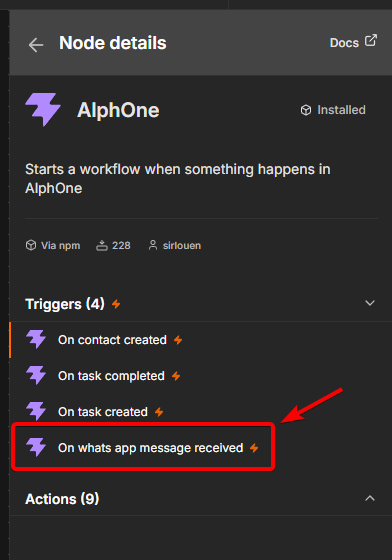
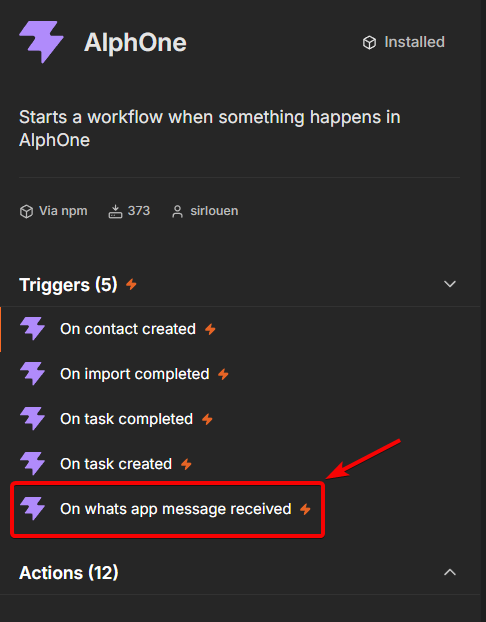
docs(n8n): stop counting what the node offers

diff --git a/docs/src/content/docs/guides/n8n.md b/docs/src/content/docs/guides/n8n.md
@@ -99,7 +99,7 @@ Press **Add first step** and search for `alphone`.
 
 The node offers a trigger for each event it supports.
 
-![The AlphOne node panel listing four triggers: on contact created, on task completed, on task created, and on WhatsApp message received.](../../../assets/n8n/06-node-triggers.png)
+![The AlphOne node panel listing one trigger per event, among them on whats app message received.](../../../assets/n8n/06-node-triggers.png)
 
 Choose **On whats app message received**.
 
@@ -131,10 +131,10 @@ way to see real data before building the rest.
 
 ## 6. Create the task
 
-Press the **+** after the trigger. The node offers nine actions across
-tasks and contacts.
+Press the **+** after the trigger. The node groups its actions by
+resource, one group per kind of record it reads and writes.
 
-![The workflow canvas with the trigger connected, and the node details panel listing nine actions for tasks and contacts.](../../../assets/n8n/10-node-actions.png)
+![The workflow canvas with the trigger connected, and the node details panel listing the actions grouped by resource.](../../../assets/n8n/10-node-actions.png)
 
 Choose **Create a task** and set:
 
@@ -223,8 +223,23 @@ docker compose exec postgres psql -U postgres -d alphone -c \
 
 ## Beyond this workflow
 
-The same two nodes cover the other three events, `task.created`,
-`task.completed`, and `contact.created`, and nine actions across tasks
-and contacts. A schedule trigger with **Get many tasks** filtered by
+The same two nodes cover every event AlphOne publishes, listed in the
+[webhooks reference](/reference/webhooks/), and every action the node
+offers. A schedule trigger with **Get many tasks** filtered by
 `due_before` makes a morning digest of overdue work, with no trigger
 registration involved.
+
+## Ready made workflows
+
+The package ships example workflows in its `examples` folder. Import one
+from the n8n canvas menu, then open each AlphOne node and pick your
+credential, which the files leave as a placeholder.
+
+- `overdue-task-digest.json` collects the tasks you have not finished and
+  builds a message from them, every morning at eight.
+- `whatsapp-message-to-task.json` creates a task the moment a WhatsApp
+  message arrives, linked to the contact AlphOne resolved it to.
+- `import-to-daily-tasks.json` turns a finished contact import into a
+  call list spread over days, twenty a day, with each task carrying its
+  import row so a re-run creates nothing twice. The [automation
+  guide](/guides/automation/) explains the recipe behind it.
